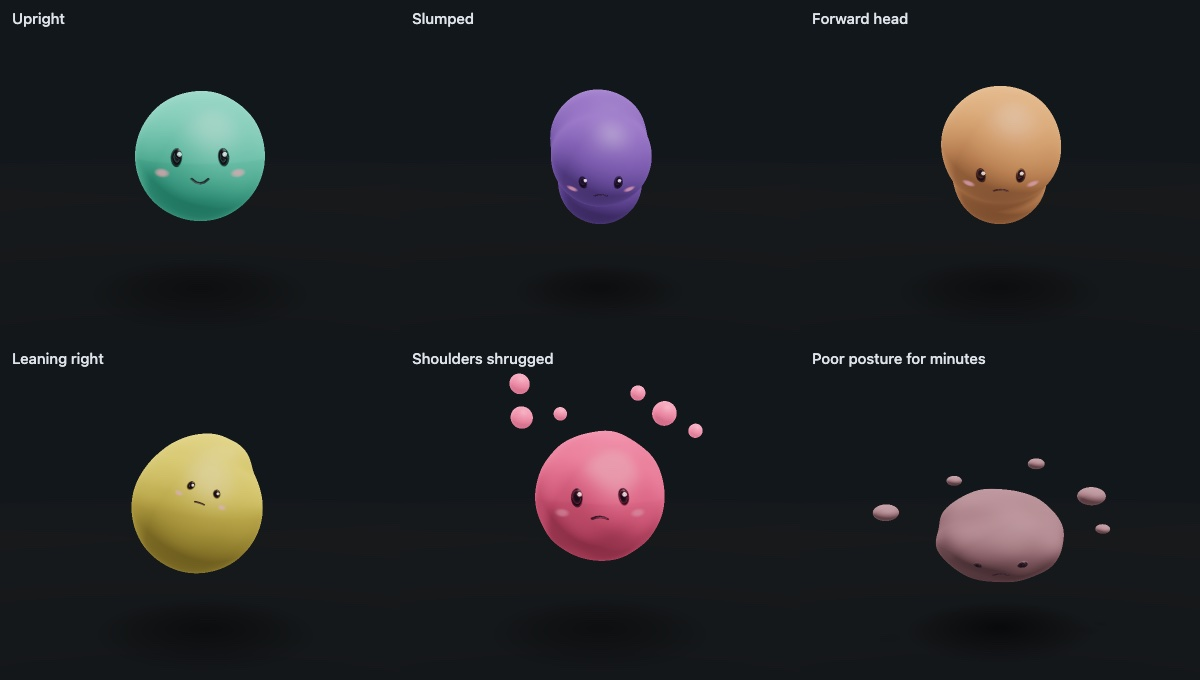
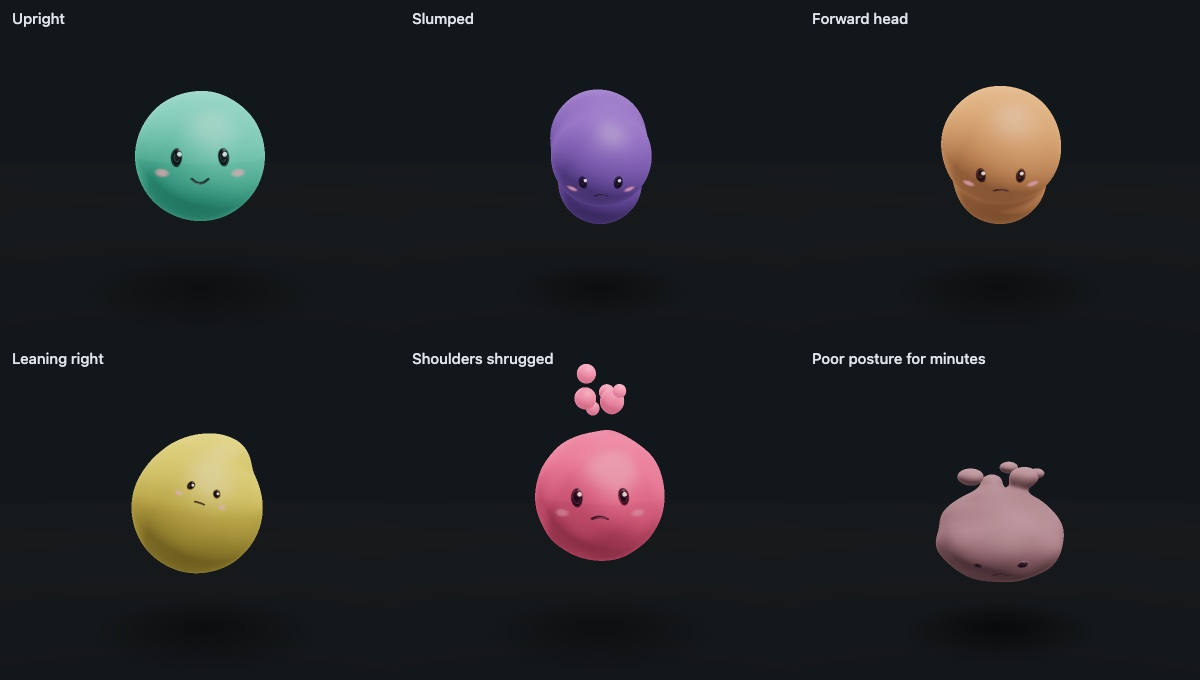
Rename to Posture Buddy; blob droplets rise; lite model; sturdier calibration
- Posture Buddy everywhere the old name appeared (page title, README, server, Pi);
  saved settings move to posture-buddy.* and old posture-flower.* values still load
- Screens show "loading…" before the first frame instead of a named waiting message
- Blob droplets bud off and rise above the body instead of orbiting out sideways,
  so the external screen keeps the blob at 2x in every normal posture
- Lite is the default pose model (?model=heavy for accuracy)
- Calibration always finishes and says what went wrong (model not running,
  nobody in view, ears/shoulders unclear); pose requests time out; footer shows
  the pose model's state

diff --git a/src/main.js b/src/main.js
@@ -18,6 +18,15 @@ let filter = new FeatureFilter();
 const app = window.app = { visual: null, engine, display: null, source: null, srcName: null, baseline: null, features: null, state: null, calib: null, inferMs: 0 };
 const NEUTRAL = { trunk: 0, lateral: 0, head: 0, headRoll: 0, shoulderTilt: 0, protraction: 0, elevL: 0, elevR: 0 };
 
+// Saved settings: store(key) reads, store(key, value) writes. Settings saved before the rename to Posture Buddy
+// (under "posture-flower.") are still read, so calibration and choices carry over.
+function store(k, v) {
+  try {
+    if (v !== undefined) return localStorage.setItem(`posture-buddy.${k}`, v), v;
+    return localStorage.getItem(`posture-buddy.${k}`) ?? localStorage.getItem(`posture-flower.${k}`);
+  } catch { return v ?? null; }
+}
+
 // ---- visuals (only the selected one exists; switching frees the other's GPU context) ----
 let visual = null, target = { ...NEUTRAL, wellbeing: wellbeing.value, confidence: 0 };
 function setTarget(s) { target = s; visual?.setTarget(s); }
@@ -30,12 +39,12 @@ async function setVisual(name) {
   if (display) display.visual = visual;
   visual.setTarget(target);
   $("visual").value = name;
-  try { localStorage.setItem("posture-flower.visual", name); } catch {}
+  store("visual", name);
 }
 
-const storeKey = () => `posture-flower.baseline.${engine.model}`;
-const saveBaseline = () => { if (app.srcName === "webcam") try { localStorage.setItem(storeKey(), JSON.stringify(app.baseline)); } catch {} };
-const loadBaseline = () => { try { return JSON.parse(localStorage.getItem(storeKey())); } catch { return null; } };
+const storeKey = () => `baseline.${engine.model}`;
+const saveBaseline = () => { if (app.srcName === "webcam") store(storeKey(), JSON.stringify(app.baseline)); };
+const loadBaseline = () => { try { return JSON.parse(store(storeKey())); } catch { return null; } };
 
 // ---- metrics panel ----
 const METRICS = [
@@ -59,7 +68,7 @@ function renderMetrics(s) {
   $("health").textContent = Math.round(wellbeing.value * 100);
 }
 
-// ---- manual sliders (to design the flower without a camera) ----
+// ---- manual sliders (to design a visual without a camera) ----
 const SLIDERS = [["trunk", -1, 1], ["lateral", -1, 1], ["head", 0, 1], ["headRoll", -30, 30], ["shoulderTilt", -15, 15],
   ["protraction", 0, 1], ["elevL", 0, 1], ["elevR", 0, 1], ["wellbeing", 0, 1]];
 const manual = { ...NEUTRAL, wellbeing: 0.9, confidence: 1 };
@@ -115,7 +124,23 @@ async function calibrate() {
   }
   banner("Hold still…", 0);
   const start = Math.max(performance.now(), app.warmUntil ?? 0);
-  app.calib = { frames: [], from: start, until: start + CAL_SECONDS * 1000 };
+  app.calib = { frames: [], results: 0, people: 0, from: start, until: start + CAL_SECONDS * 1000 };
+  // Finish even if the pose model goes quiet, so "Hold still…" can never stay up.
+  clearTimeout(calTimer);
+  calTimer = setTimeout(finishCalibration, app.calib.until - performance.now() + 3000);
+}
+let calTimer;
+
+// Ends calibration: a baseline from the frames collected, or a message saying what was missing.
+function finishCalibration() {
+  const c = app.calib;
+  if (!c) return;
+  app.calib = null;
+  clearTimeout(calTimer);
+  if (c.frames.length >= 5) { app.baseline = median(c.frames); saveBaseline(); banner("Calibrated ✓"); }
+  else if (!c.results) banner("The pose model isn't running. Reload the page (Cmd+Shift+R) and try again.", 8000);
+  else if (!c.people) banner("No one in view. Get your head and shoulders in the camera, then press Calibrate.", 6000);
+  else banner("Couldn't see your ears and shoulders clearly. Try again.", 5000);
 }
 app.calibrate = calibrate;
 app.infer = () => infer();   // lets tests step the pipeline when timers are throttled
@@ -135,14 +160,21 @@ async function infer() {
   let r;
   inferring = true;
   try { r = await engine.detect(src); }
-  catch { return; }        // e.g. the model is being switched
+  catch (e) { app.inferError = e.message; return; }   // e.g. the model is being switched
   finally { inferring = false; }
   if (src !== app.source) return;
   app.inferMs = engine.ms;
+  app.inferError = null;
+  if (app.calib) { app.calib.results++; if (r) app.calib.people++; }
 
   octx.clearRect(0, 0, overlay.width, overlay.height);
   if (src !== video) octx.drawImage(src, 0, 0);
-  if (!r) { app.state = null; app.warmUntil = now + WARMUP_MS; setTarget({ ...NEUTRAL, wellbeing: wellbeing.value, confidence: 0 }); renderMetrics(null); return; }
+  if (!r) {
+    app.state = null; app.warmUntil = now + WARMUP_MS;
+    setTarget({ ...NEUTRAL, wellbeing: wellbeing.value, confidence: 0 }); renderMetrics(null);
+    if (app.calib && now > app.calib.until) finishCalibration();
+    return;
+  }
   drawSkeleton(octx, r.lm);
 
   const raw = extractFeatures(r.lm, r.world, overlay.width, overlay.height);
@@ -150,11 +182,7 @@ async function infer() {
 
   if (app.calib) {
     if (raw.conf > 0.6 && now >= app.calib.from) app.calib.frames.push(raw);
-    if (now > app.calib.until) {
-      if (app.calib.frames.length >= 5) { app.baseline = median(app.calib.frames); saveBaseline(); banner("Calibrated ✓"); }
-      else banner("Couldn't see your ears and shoulders clearly — try again");
-      app.calib = null;
-    }
+    if (now > app.calib.until) finishCalibration();
   }
   if (!app.baseline || f.conf < 0.5) {
     setTarget({ ...NEUTRAL, wellbeing: wellbeing.value, confidence: f.conf });
@@ -177,8 +205,9 @@ function loop(now) {
   fps += (1 / Math.max(dt, 1e-3) - fps) * 0.05;
   if (manualOn()) setTarget(manual);
   if (visual) { visual.step(dt, now / 1000); visual.render(); }
-  $("foot").textContent = `${engine.model ?? "…"} · inference ${app.inferMs.toFixed(0)} ms @ ${INFER_HZ} Hz · render ${fps.toFixed(0)} fps` +
-    (app.baseline ? "" : " · not calibrated");
+  const pose = !engine.ready ? "pose model loading…" : app.inferError ? `pose model error: ${app.inferError}`
+    : `${engine.model} · inference ${app.inferMs.toFixed(0)} ms @ ${INFER_HZ} Hz`;
+  $("foot").textContent = `${pose} · render ${fps.toFixed(0)} fps` + (app.baseline ? "" : " · not calibrated");
   renderDisplayStatus();
   requestAnimationFrame(loop);
 }
@@ -201,10 +230,9 @@ ticker.onmessage = () => {
 };
 
 // ---- external screen: Raspberry Pi over HDMI, or the ESP32 LCD ----
-const store = (k, v) => { try { v === undefined ? (v = localStorage.getItem(k)) : localStorage.setItem(k, v); } catch {} return v; };
 let display = null;
 $("dispTarget").innerHTML = Object.entries(TARGETS).map(([k, t]) => `<option value="${k}">${t.label}</option>`).join("");
-$("piHost").value = q.get("pi") || store("posture-flower.piHost") || "10.12.194.1";
+$("piHost").value = q.get("pi") || store("piHost") || "10.12.194.1";
 
 function setDisplay(target) {
   if (!TARGETS[target]) target = "pi";
@@ -215,9 +243,9 @@ function setDisplay(target) {
   $("dispTarget").value = target;
   $("piHost").hidden = target !== "pi";
   $("lcdBtn").disabled = !display.supported;
-  store("posture-flower.display", target);
+  store("display", target);
 }
-setDisplay(q.get("display") || store("posture-flower.display"));
+setDisplay(q.get("display") || store("display"));
 if (q.get("connect") === "1" && display.target === "pi") display.connect().catch(e => banner(e.message, 6000));  // no picker needed
 
 function renderDisplayStatus() {
@@ -228,7 +256,7 @@ function renderDisplayStatus() {
     : "Not connected";
 }
 $("dispTarget").onchange = e => setDisplay(e.target.value);
-$("piHost").onchange = e => { store("posture-flower.piHost", e.target.value.trim()); setDisplay("pi"); };
+$("piHost").onchange = e => { store("piHost", e.target.value.trim()); setDisplay("pi"); };
 $("lcdBtn").onclick = async () => {
   try {
     if (display.target === "pi") display.transport.host = $("piHost").value.trim();
@@ -254,11 +282,9 @@ $("model").onchange = async e => {
   if (!app.baseline && app.source) banner("New model — please recalibrate", 3000);
 };
 
-let savedVisual = null;
-try { savedVisual = localStorage.getItem("posture-flower.visual"); } catch {}
-await setVisual(q.get("visual") || savedVisual || "flower");
+await setVisual(q.get("visual") || store("visual") || "flower");
 
-const model = q.get("model") || "heavy";
+const model = q.get("model") || "lite";   // lite keeps up best alongside the 3D views; ?model=heavy for accuracy
 $("model").value = model;
 await engine.load(model);
 $("camMsg").textContent = "Press Start camera";

diff --git a/src/blob.js b/src/blob.js
@@ -40,7 +40,7 @@ const L_REST = 0, R_REST = 0.62, HOVER = 1.35;
 const BOX_MIN = new THREE.Vector3(-2.3, -0.02, -2.3), BOX_MAX = new THREE.Vector3(2.3, 3.3, 2.3);
 
 // [side (+1 = right), azimuth from the side axis toward the front, upward component,
-//  tension threshold, radius, travel beyond the surface, anchor spine node]
+//  tension threshold, radius, travel beyond the surface, anchor spine node (unused: all now rise from the top)]
 // Few, small, deliberately uneven. Each is either in or out; the gooey neck only shows while it moves.
 const DROPS = [
   [ 1,  0.35,  0.55, 0.15, 0.115, 0.38, 3],
@@ -510,13 +510,19 @@ export class JelloBlob {
     // ---- droplets: positions, gentle orbit, velocity-stretched tails ----
     const tension = Math.max(tensionSide(1), tensionSide(-1));
     for (let i = 0; i < ND; i++) {
-      const [side, az, up, , r, dist, anchor] = DROPS[i], d = this.drops[i];
+      const [side, az, up, , r, dist] = DROPS[i], d = this.drops[i];
       const det = Math.max(0, d.det.x), elev = side > 0 ? v.elevR : v.elevL;
       if (h) d.phase += h * side * (0.1 + 0.05 * (i % 3)) * smooth(0.3, 1, det) * (0.5 + tension);
       dir.set(side * Math.cos(az), up + 0.8 * elev, Math.sin(az) + 0.6 * v.protraction).normalize().applyAxisAngle(Y, d.phase);
-      const ra = rad[anchor];
+      // Droplets rise off the top rather than flying out sideways: a tall screen has room above the blob but little
+      // beside it, and anything wide makes the external screen's framing pull back (display.js). They keep a narrow
+      // orbit and lean toward their shoulder's side, so which side is tense still reads.
+      dir.x *= 0.35;
+      dir.y = 0.9 + Math.abs(dir.y);
+      dir.normalize();
+      const ra = rad[SEGS];
       d.prev.copy(d.pos);
-      d.pos.copy(N[anchor].x).addScaledVector(dir, ra * 0.45 + det * (ra * 0.6 + dist));
+      d.pos.copy(N[SEGS].x).addScaledVector(dir, ra * 0.45 + det * (ra * 0.6 + 0.75 * dist));
       d.pos.y += (0.03 + 0.01 * (i % 3)) * det * Math.sin(time * (1.3 + 0.37 * i) + i * 1.7);
       d.pos.y = Math.max(d.pos.y, r * 0.9);
       d.pos.clamp(BOX_MIN, BOX_MAX);

diff --git a/src/pose.js b/src/pose.js
@@ -11,13 +11,23 @@ export class PoseEngine {
       this.calls.delete(data.id);
       data.error ? c?.reject(new Error(data.error)) : c?.resolve(data);
     };
+    // A crash inside the worker would otherwise leave callers waiting forever.
+    this.worker.onerror = e => {
+      for (const c of this.calls.values()) c.reject(new Error(e.message || "pose worker failed"));
+      this.calls.clear();
+    };
     this.ready = false; this.model = null; this.lastTs = 0; this.ms = 0;
   }
 
-  #call(msg, transfer) {
+  #call(msg, transfer, timeoutMs = 0) {
     const id = this.nextId++;
     return new Promise((resolve, reject) => {
-      this.calls.set(id, { resolve, reject });
+      const timer = timeoutMs && setTimeout(() => {
+        this.calls.delete(id);
+        reject(new Error("pose model didn't answer"));
+      }, timeoutMs);
+      const done = f => v => { clearTimeout(timer); f(v); };
+      this.calls.set(id, { resolve: done(resolve), reject: done(reject) });
       this.worker.postMessage({ ...msg, id }, transfer);
     });
   }
@@ -34,7 +44,7 @@ export class PoseEngine {
     const ts = Math.max(performance.now(), this.lastTs + 1); // timestamps must strictly increase
     this.lastTs = ts;
     const frame = await createImageBitmap(source);
-    const r = await this.#call({ type: "detect", frame, ts }, [frame]);
+    const r = await this.#call({ type: "detect", frame, ts }, [frame], 15000);   // ~30-150 ms normally; the first can be slow
     this.ms = r.ms;
     return r.lm ? { lm: r.lm, world: r.world } : null;
   }

diff --git a/pi/screen.html b/pi/screen.html
@@ -3,7 +3,7 @@
 <html lang="en">
 <head>
 <meta charset="utf-8">
-<title>Posture Flower display</title>
+<title>Posture display</title>
 <style>
   html, body { margin: 0; height: 100%; background: #000; overflow: hidden; cursor: none; }
   canvas { display: block; width: 100vw; height: 100vh; }
@@ -25,7 +25,7 @@ function waiting() {
   g.fillStyle = "#000"; g.fillRect(0, 0, c.width, c.height);
   g.fillStyle = "#444"; g.textAlign = "center"; g.textBaseline = "middle";
   g.font = `${Math.round(c.height / 30)}px system-ui, sans-serif`;
-  g.fillText("waiting for Posture Flower", c.width / 2, c.height / 2);
+  g.fillText("loading…", c.width / 2, c.height / 2);
 }
 
 // Scale the frame to fill the screen without stretching; the frames have a black background, so bars blend in.

diff --git a/index.html b/index.html
@@ -3,7 +3,7 @@
 <head>
 <meta charset="utf-8">
 <meta name="viewport" content="width=device-width, initial-scale=1">
-<title>Posture Flower</title>
+<title>Posture Buddy</title>
 <script type="importmap">
 { "imports": {
   "three": "https://cdn.jsdelivr.net/npm/three@0.186.1/build/three.module.js",
@@ -82,7 +82,7 @@
     <div id="lcdPreview" title="What the external screen shows"></div>
   </div>
   <details id="manual">
-    <summary>Manual: drive the flower with sliders</summary>
+    <summary>Manual: drive the visual with sliders</summary>
     <div id="sliders" style="display:grid; gap:6px; margin-top:8px"></div>
   </details>
 </aside>

diff --git a/serve.py b/serve.py
@@ -12,5 +12,5 @@ class NoCacheHandler(http.server.SimpleHTTPRequestHandler):
 
 port = int(sys.argv[1]) if len(sys.argv) > 1 else 8785
 handler = functools.partial(NoCacheHandler, directory=os.path.dirname(os.path.abspath(__file__)))
-print(f"Posture Flower: http://localhost:{port}", flush=True)
+print(f"Posture Buddy: http://localhost:{port}", flush=True)
 http.server.ThreadingHTTPServer(("", port), handler).serve_forever()

diff --git a/pi/posture_display.py b/pi/posture_display.py
@@ -1,5 +1,5 @@
 #!/usr/bin/env python3
-"""Shows the Posture Flower visual on the Raspberry Pi's HDMI screen.
+"""Shows the posture visual on the Raspberry Pi's HDMI screen.
 
 The Mac renders each frame and sends it here as a JPEG over a WebSocket (ws://<pi>:8790/source).
 A full-screen Chromium page on the Pi (http://localhost:8790/) picks up the newest frame from

diff --git a/README.md b/README.md
@@ -1,6 +1,6 @@
-# Posture Flower
+# Posture Buddy
 
-Real-time sitting-posture tracking from a laptop's front webcam (MediaPipe Pose Landmarker, heavy),
+Real-time sitting-posture tracking from a laptop's front webcam (MediaPipe Pose Landmarker, lite by default),
 rendered as a 3D visual (three.js) that mirrors your body: a flower or a jello blob. The same picture can stream to a
 Raspberry Pi's HDMI screen (or a small ESP32-S3 LCD).
 
@@ -27,7 +27,7 @@ Camera frames stay in the browser. The MediaPipe library does send usage metrics
 
 Pick **Flower** or **Jello blob** from the **Visual** dropdown; the external screen follows the choice, and it's remembered.
 
-URL options: `?visual=flower|blob`, `?model=heavy|full|lite`, `?hz=15` (inference rate), `?tau=45` (seconds for flower health to respond),
+URL options: `?visual=flower|blob`, `?model=lite|full|heavy` (lite is the default; heavy is more accurate but slower, and calibration is kept per model), `?hz=15` (inference rate), `?tau=45` (seconds for flower health to respond),
 `?src=front-man&autocal=1` (run on a test photo instead of the webcam),
 `?display=pi|esp32`, `?pi=10.12.194.1` (the Pi's address), `?connect=1` (connect to the Pi on load), `?dispfps=30`,
 `?mainfps=30` (this window's frame rate while streaming), `?zoom=1.5` (a fixed framing for the external screen instead of the automatic one).
@@ -76,7 +76,7 @@ Nothing needs installing on the Pi beyond Raspberry Pi OS with desktop (the serv
    user service (port 8790), opens the full-screen page when the desktop starts, and adds a labwc window rule
    (in `~/.config/labwc/rc.xml`) that parks and hides the mouse pointer when the page opens.
    ```bash
-   scp -r pi <user>@10.12.194.1:posture-flower/ && ssh <user>@10.12.194.1 posture-flower/pi/install.sh
+   scp -r pi <user>@10.12.194.1:posture-buddy/ && ssh <user>@10.12.194.1 posture-buddy/pi/install.sh
    ```
 
 **Each time:** in the app on the Mac, set **Screen** to *Raspberry Pi (HDMI)*, check the address (`10.12.194.1` over
@@ -92,7 +92,7 @@ draws each frame in 3–5 ms.
 The computer does all the tracking and 3D rendering; the board only decodes and displays.
 Each frame is a ~3–6 KB JPEG sent over the USB cable. On an ESP32-S3 N16R8 + Waveshare 2" ST7789 it runs at
 ~28 fps for the flower and ~32 fps for the blob (decode + draw 20–22 ms per frame); the page sends 20 fps. When the stream stops, the last frame stays on screen;
-at power-on the screen shows "waiting for Posture Flower" until the first frame arrives.
+at power-on the screen shows "loading..." until the first frame arrives.
 
 1. Wire the LCD: DIN→GPIO11, CLK→GPIO12, CS→GPIO10, DC→GPIO9, RST→GPIO8, VCC→3V3, GND→GND, BL→3V3.
 2. Install the **LovyanGFX** and **JPEGDEC** libraries.
@@ -118,7 +118,7 @@ The SPI clock is 80 MHz. If the image shows noise or wrong colours, set `SPI_HZ`
 | Ear–shoulder–hip stack | hips aren't visible, so inferred from head + trunk | (combined) | (combined) |
 | Side balance (weight) | shoulder-line tilt + sideways shift | stem leans, pot tips | jelly pools to one side and tips over, turns lemon |
 | Forward head | ear-above-shoulder height ÷ shoulder width shrinks; head grows relative to shoulders; 3D ear-vs-shoulder depth | top of stem nods, bloom droops; head roll tilts the bloom | top lobe swells and droops, turns amber; head roll tilts the face |
-| Shoulders protracted / raised | 3D shoulder span narrows; shoulders rise relative to ears | leaves swing forward / lift and tremble | droplets stretch out in front / drift up off the top, turns pink |
+| Shoulders protracted / raised | 3D shoulder span narrows; shoulders rise relative to ears | leaves swing forward / lift and tremble | droplets bud off and rise above it (more and faster when tenser), turns pink |
 | Sustained posture (45 s average) | — | petals open and pink → closed, brown, drooping | floating and smiling → sinks, sags, goes dull, frowns |
 
 Severities are relative to your calibration, not absolute angles; [docs/METRICS.md](docs/METRICS.md) explains each one.
